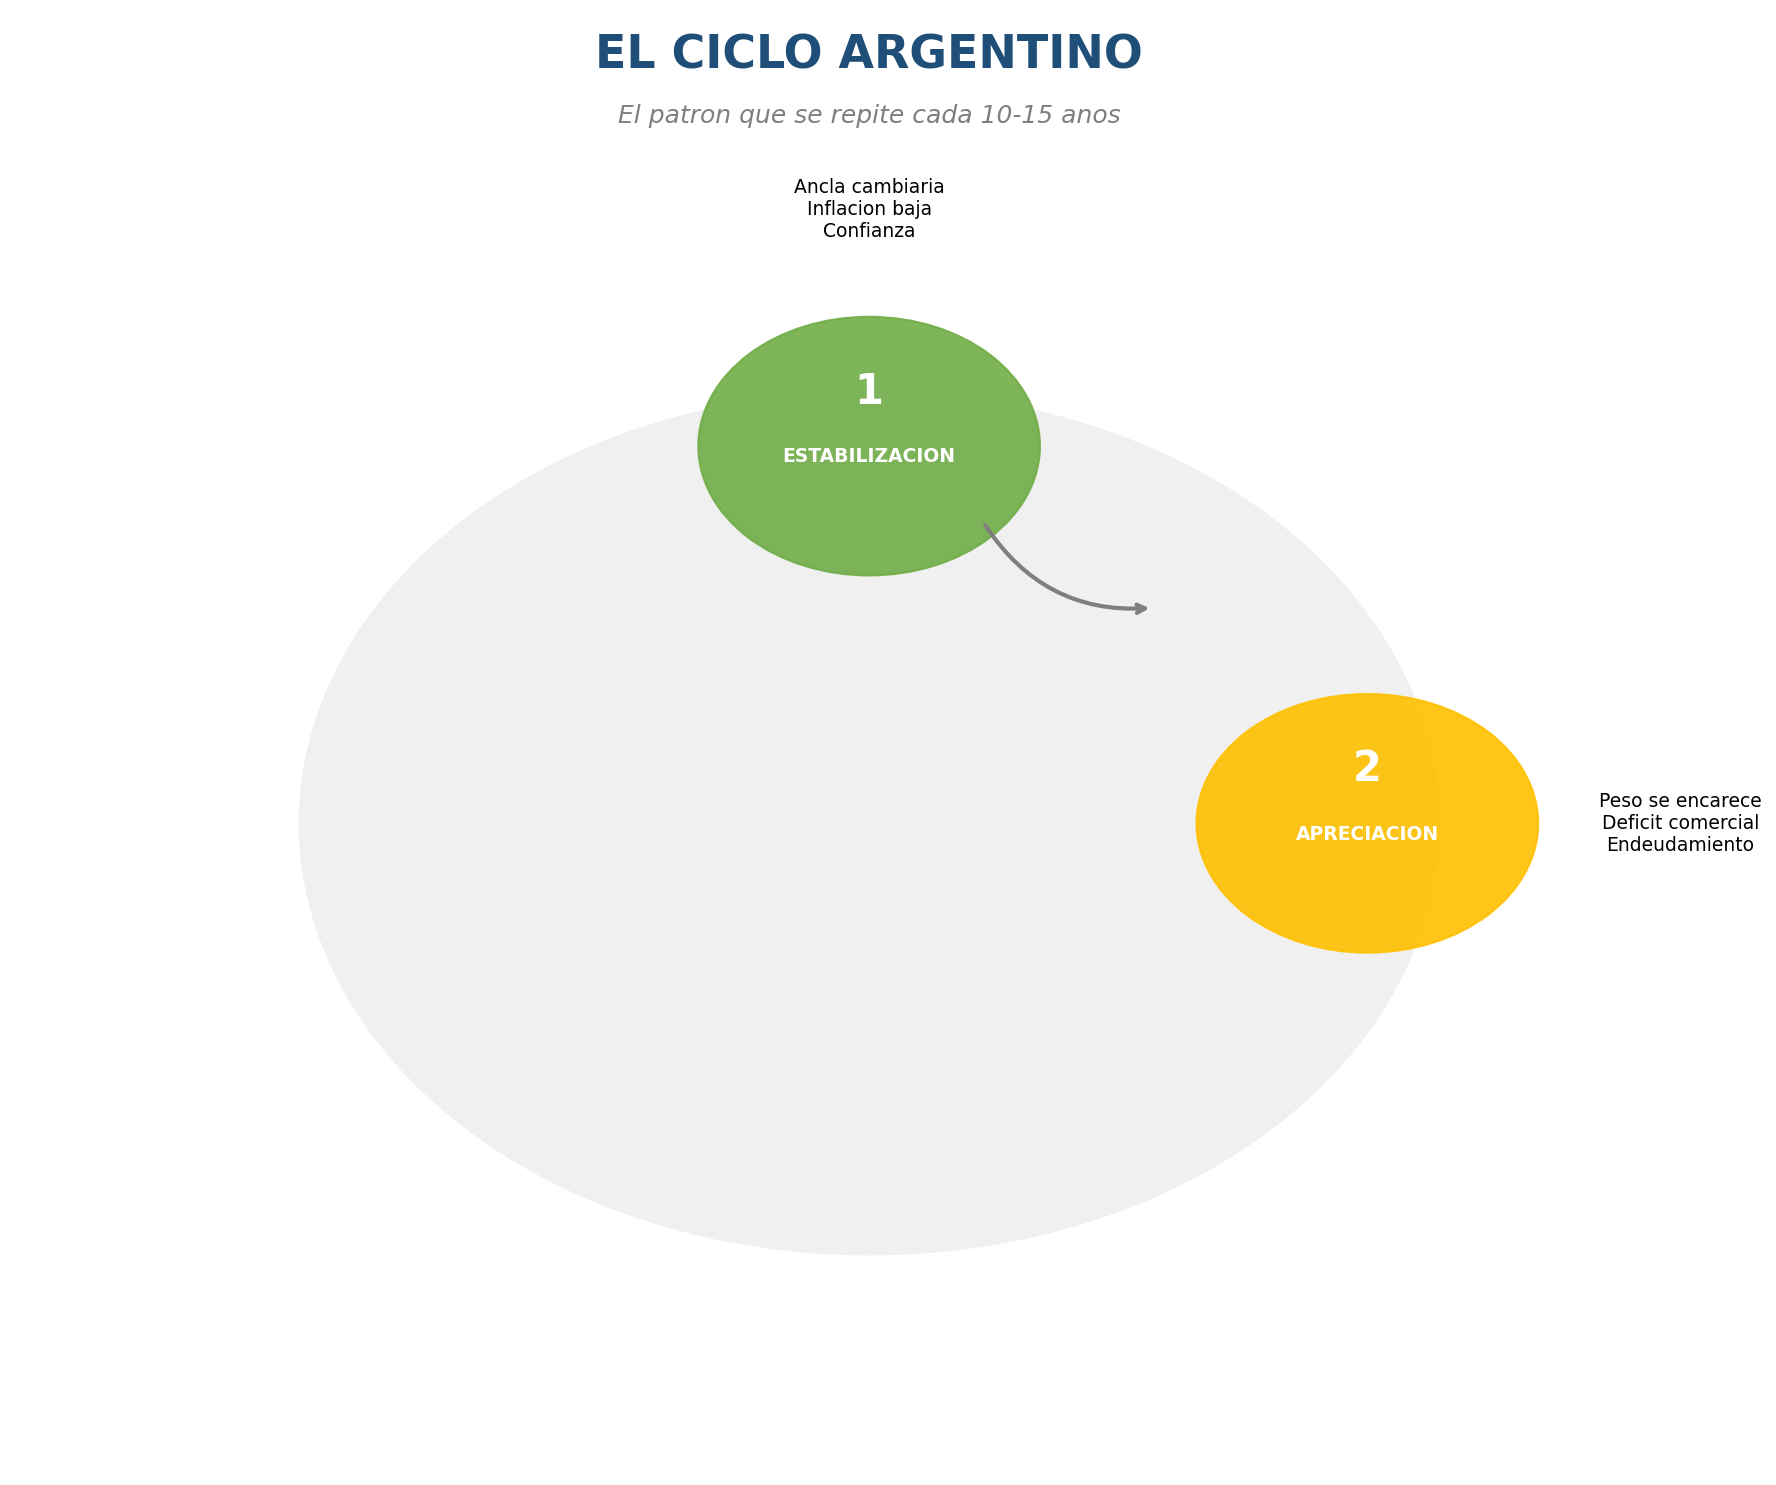
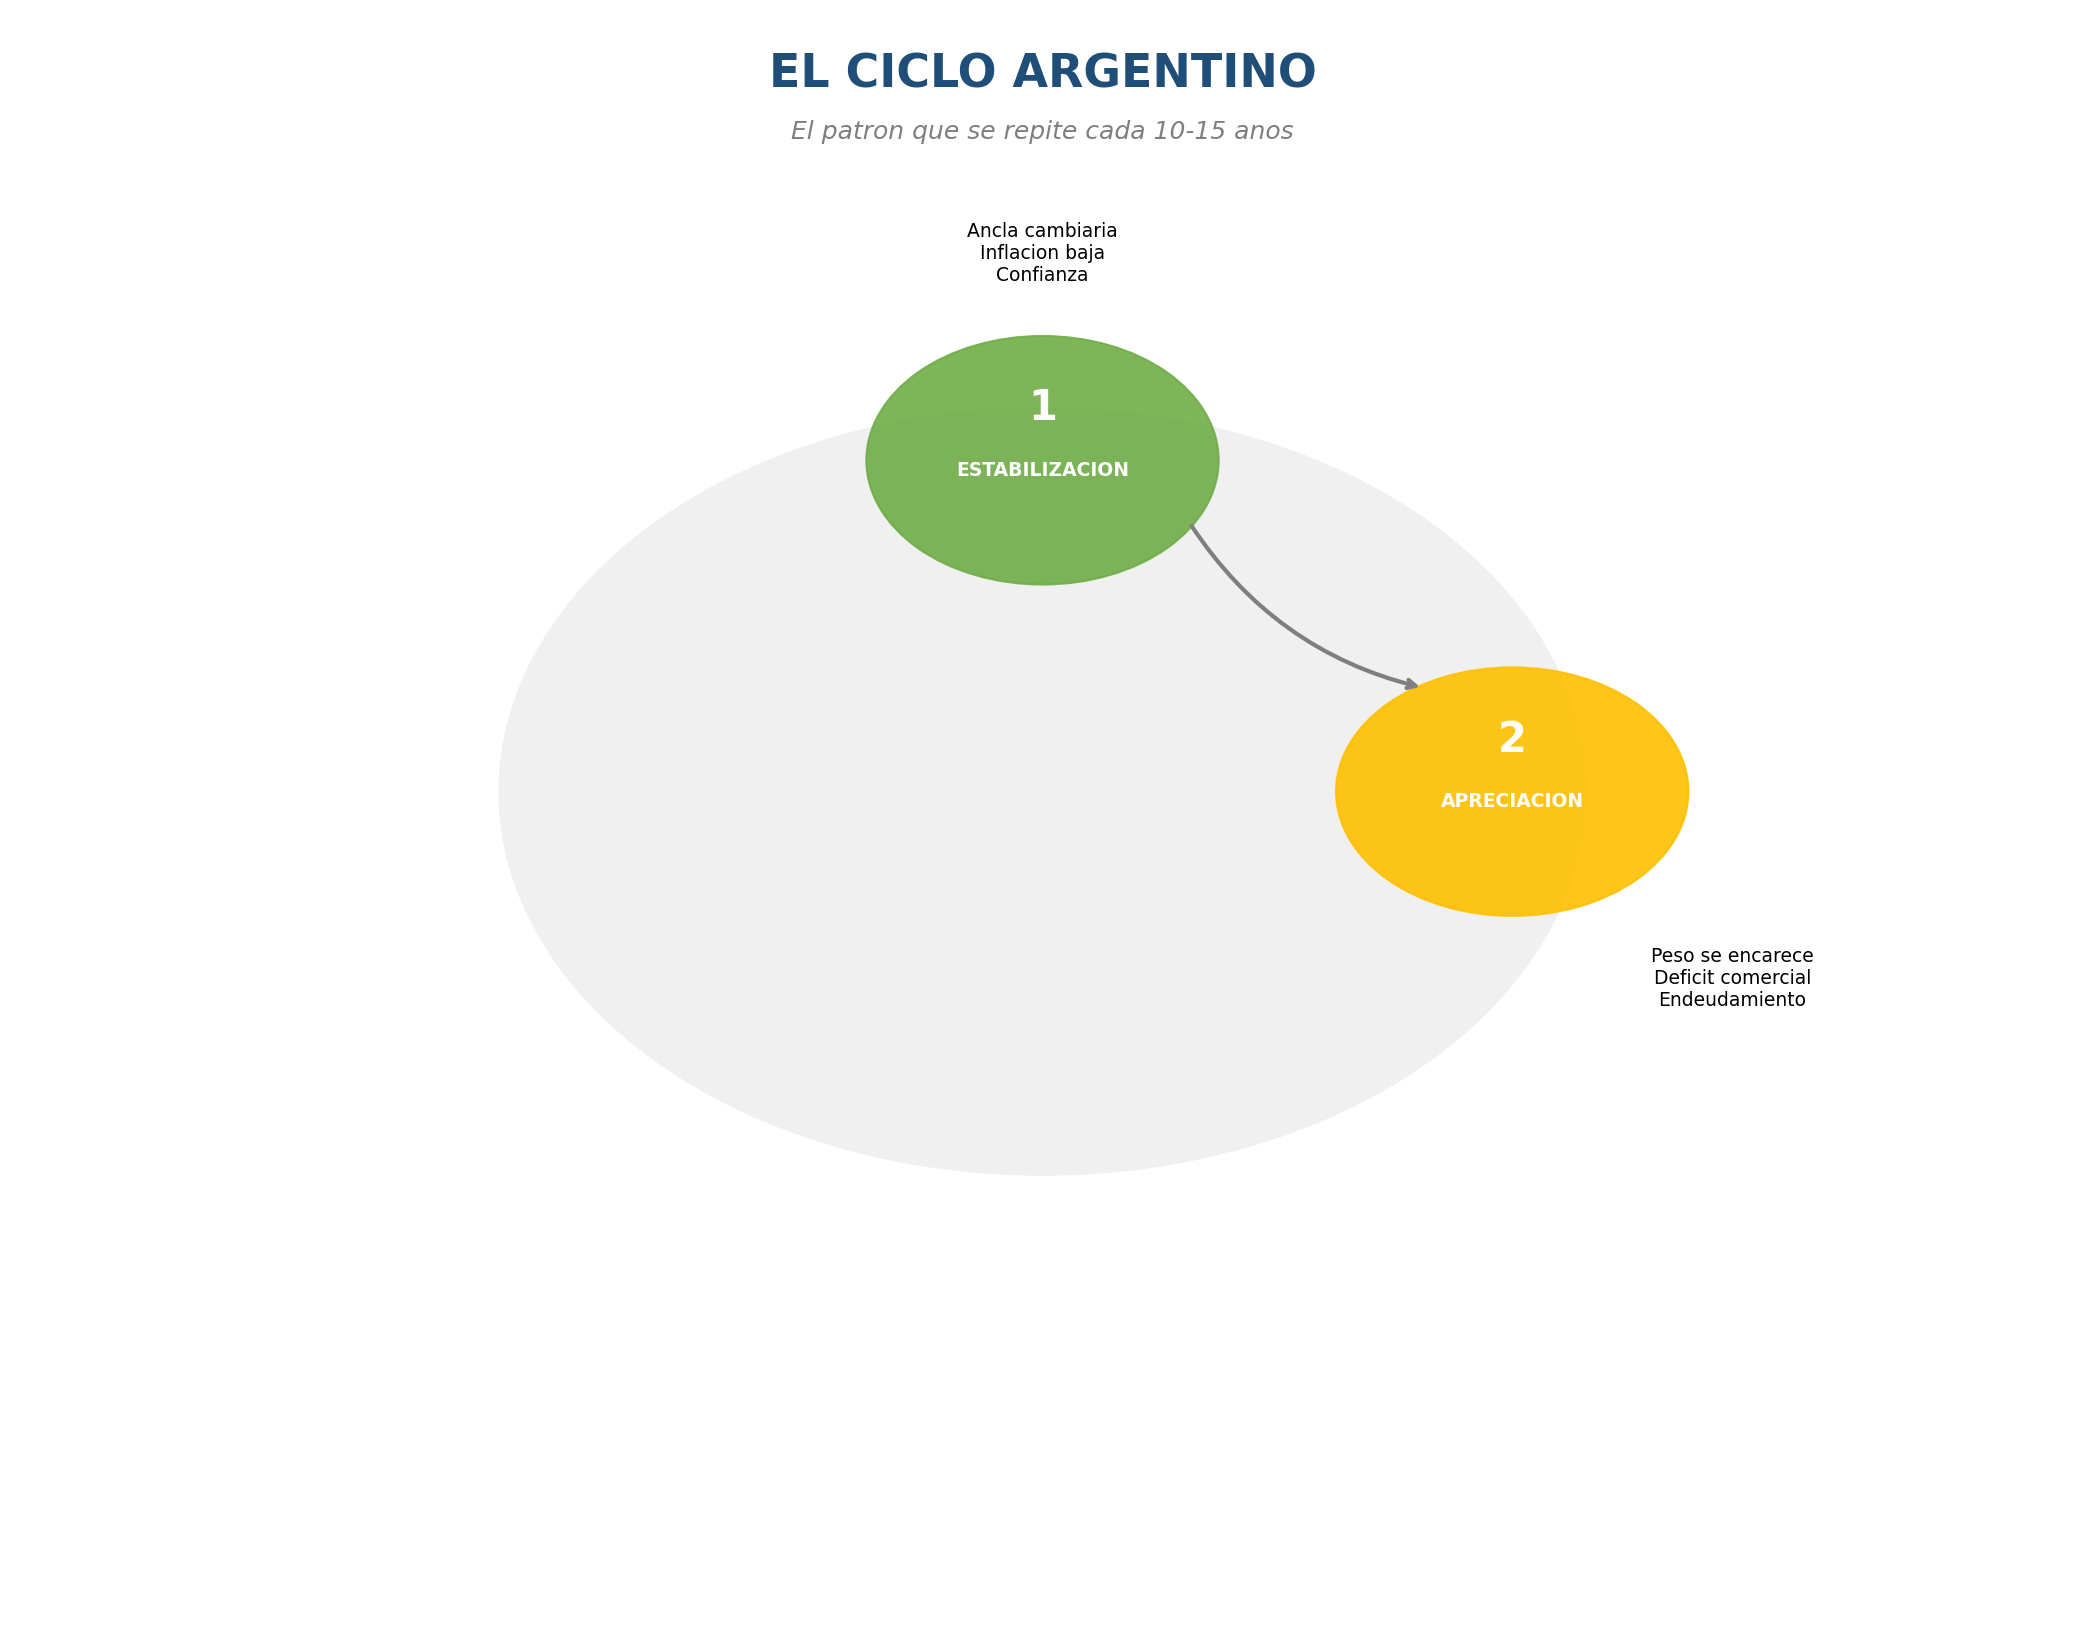
fix(S1): corregir graficos ciclo argentino (slide 62)
- Ampliar figsize y limites para que textos no se corten
- Mover descripciones laterales debajo de los circulos
- Corregir posiciones de flechas (sentido horario)
- Separar textos de ejemplos del circulo de Crisis
- Reducir radio de curvatura de flechas

diff --git a/Clases/sesion01/scripts/generar_progresivos.py b/Clases/sesion01/scripts/generar_progresivos.py
@@ -469,44 +469,44 @@ def prog_identidad_ahorro_inversion():
 # =====================================================================
 def prog_ciclo_argentino():
     print("\n[7/14] Ciclo argentino...")
-    centro_x, centro_y = 6, 5.5
-    radio = 3.5
+    centro_x, centro_y = 7, 6.5
+    radio = 3.2
 
     fases = [
         {'pos': (centro_x, centro_y + radio), 'color': D_VERDE, 'num': '1',
          'titulo': 'ESTABILIZACION', 'desc': 'Ancla cambiaria\nInflacion baja\nConfianza',
-         'desc_pos': (centro_x, centro_y + radio + 2.2)},
+         'desc_pos': (centro_x, centro_y + radio + 2.0), 'desc_ha': 'center'},
         {'pos': (centro_x + radio, centro_y), 'color': D_AMARILLO, 'num': '2',
          'titulo': 'APRECIACION', 'desc': 'Peso se encarece\nDeficit comercial\nEndeudamiento',
-         'desc_pos': (centro_x + radio + 2.2, centro_y)},
+         'desc_pos': (centro_x + radio + 1.5, centro_y - 1.8), 'desc_ha': 'center'},
         {'pos': (centro_x, centro_y - radio), 'color': D_ROJO, 'num': '3',
          'titulo': 'CRISIS', 'desc': 'Fuga de capitales\nCaen reservas\nDevaluacion',
-         'desc_pos': (centro_x, centro_y - radio - 2.2)},
+         'desc_pos': (centro_x, centro_y - radio - 2.0), 'desc_ha': 'center'},
         {'pos': (centro_x - radio, centro_y), 'color': D_AZUL_CL, 'num': '4',
          'titulo': 'RECUPERACION', 'desc': 'TC competitivo\nSuperavit\nCrecimiento',
-         'desc_pos': (centro_x - radio - 2.2, centro_y)},
+         'desc_pos': (centro_x - radio - 1.5, centro_y - 1.8), 'desc_ha': 'center'},
     ]
 
     arrows = [
-        # 1 -> 2
-        ((centro_x + 0.8, centro_y + 2.8), (centro_x + 2, centro_y + 2)),
-        # 2 -> 3
-        ((centro_x + 2.8, centro_y + 0.8), (centro_x + 2.8, centro_y - 0.8)),
-        # 3 -> 4
-        ((centro_x + 0.8, centro_y - 2.8), (centro_x - 0.8, centro_y - 2.8)),
-        # 4 -> 1
-        ((centro_x - 2.8, centro_y - 0.8), (centro_x - 2.8, centro_y + 0.8)),
+        # 1 -> 2 (arriba-derecha a derecha)
+        ((centro_x + 1.0, centro_y + radio - 0.6), (centro_x + radio - 0.6, centro_y + 1.0)),
+        # 2 -> 3 (derecha a abajo-derecha)
+        ((centro_x + radio - 0.6, centro_y - 1.0), (centro_x + 1.0, centro_y - radio + 0.6)),
+        # 3 -> 4 (abajo-izquierda a izquierda)
+        ((centro_x - 1.0, centro_y - radio + 0.6), (centro_x - radio + 0.6, centro_y - 1.0)),
+        # 4 -> 1 (izquierda a arriba-izquierda)
+        ((centro_x - radio + 0.6, centro_y + 1.0), (centro_x - 1.0, centro_y + radio - 0.6)),
     ]
 
     for paso in range(1, 5):
-        fig, ax = plt.subplots(figsize=(12, 10))
-        ax.set_xlim(0, 12)
-        ax.set_ylim(-0.5, 13)
+        fig, ax = plt.subplots(figsize=(14, 11))
+        ax.set_xlim(0, 14)
+        ax.set_ylim(-1.5, 14)
         ax.axis('off')
 
-        ax.text(6, 12.5, 'EL CICLO ARGENTINO', fontsize=22, fontweight='bold',
+        ax.text(7, 13.3, 'EL CICLO ARGENTINO', fontsize=22, fontweight='bold',
                 ha='center', color=D_AZUL)
-        ax.text(6, 12.0, 'El patron que se repite cada 10-15 anos', fontsize=12,
+        ax.text(7, 12.8, 'El patron que se repite cada 10-15 anos', fontsize=12,
                 ha='center', color=D_GRIS, style='italic')
 
         # Circulo de fondo
@@ -526,10 +526,10 @@ def prog_ciclo_argentino():
             ax.text(x, y - 0.1, f['titulo'], fontsize=9, fontweight='bold',
                     ha='center', va='center', color='white', zorder=3)
             dx, dy = f['desc_pos']
-            ax.text(dx, dy, f['desc'], fontsize=9, ha='center', va='center')
+            ax.text(dx, dy, f['desc'], fontsize=9, ha=f['desc_ha'], va='center')
 
         # Flechas (una menos que fases, + flecha cierre en paso 4)
-        arrow_props = dict(arrowstyle='->', color=D_GRIS, lw=2, connectionstyle='arc3,rad=0.3')
+        arrow_props = dict(arrowstyle='->', color=D_GRIS, lw=2, connectionstyle='arc3,rad=0.2')
         n_arrows = min(paso, 4) - 1  # paso1=0, paso2=1, paso3=2, paso4=3
         if paso >= 4:
             n_arrows = 4  # incluye 4->1
@@ -539,11 +539,11 @@ def prog_ciclo_argentino():
 
         # Ejemplos solo en paso 4
         if paso >= 4:
-            ax.text(6, 1.2, 'EJEMPLOS: 1991-2001 (Convertibilidad) \u2192 2002 (Crisis)',
+            ax.text(7, -0.1, 'EJEMPLOS: 1991-2001 (Convertibilidad) \u2192 2002 (Crisis)',
                     fontsize=10, ha='center', color=D_AZUL, fontweight='bold')
-            ax.text(6, 0.7, '2003-2011 (Recuperacion) \u2192 2012-2015 (Apreciacion) \u2192 2018 (Crisis)',
+            ax.text(7, -0.6, '2003-2011 (Recuperacion) \u2192 2012-2015 (Apreciacion) \u2192 2018 (Crisis)',
                     fontsize=10, ha='center', color=D_AZUL)
-            ax.text(6, 0.2, '\u00bf2024-?: \u00bfEn que fase estamos?',
+            ax.text(7, -1.1, '\u00bf2024-?: \u00bfEn que fase estamos?',
                     fontsize=10, ha='center', color=D_ROJO, fontweight='bold')
 
         plt.tight_layout()
